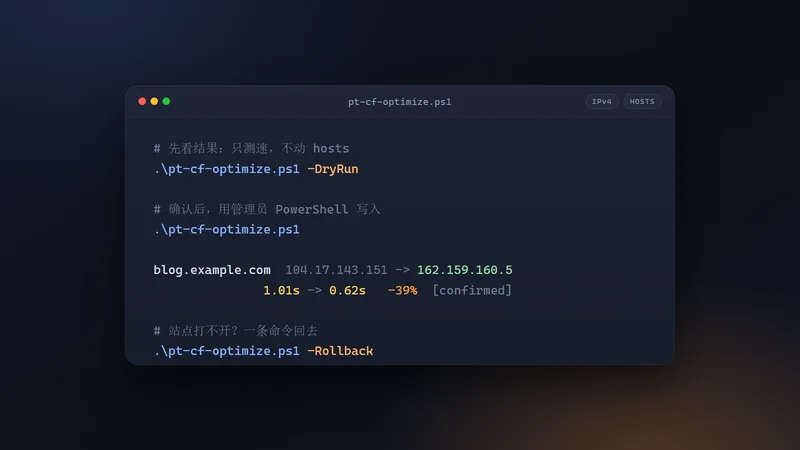
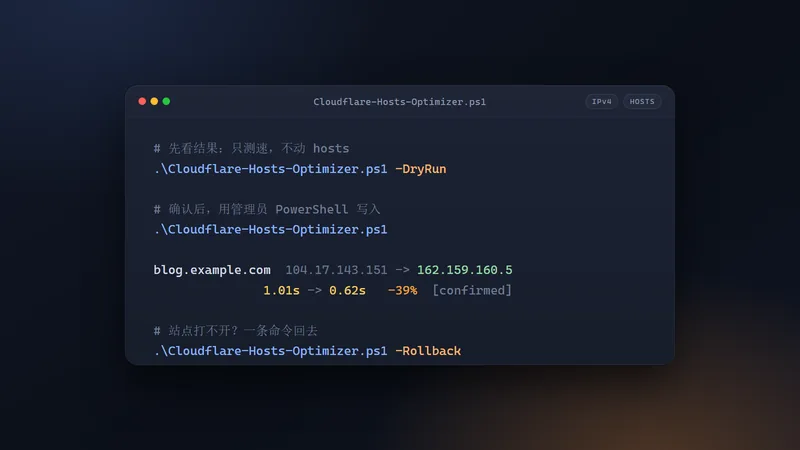
post: 跟进仓库与脚本改名 Cloudflare-Hosts-Optimizer

diff --git a/content/posts/pt-cf-optimize/index.md b/content/posts/pt-cf-optimize/index.md
@@ -15,7 +15,7 @@ categories: []
 
 很多套了 Cloudflare 的站点，打开速度取决于你被分到哪个边缘节点。我这边（河北联通）访问大部分 PT 站都很慢，有的甚至完全进不去。用 [CloudflareSpeedTest（CFST）](https://github.com/XIU2/CloudflareSpeedTest) 优选后手动写 hosts 确实能改善，但 CFST 选出的 IP 不一定对每个站都最优：有的 IP 测速数据漂亮，一访问站点却提示 1034（Edge IP Restricted）；而且 CFST 默认的测速地址已经不由作者维护（[issue #168](https://github.com/XIU2/CloudflareSpeedTest/issues/168)），我这边访问直接返回 403，当前版本会判为失败，等于测不出速度。
 
-所以我写了 `pt-cf-optimize`：在 Windows 上测出当前线路到 Cloudflare 各边缘节点较快的 IP，逐站验证可用后写进 hosts。它只改善网页 TTFB，不影响 P2P；不代理、不登录、不改出口 IP。我这边优选后，一个原本要 >10 秒才能加载完的站，现在 3 秒左右就能打开。
+所以我写了 `Cloudflare-Hosts-Optimizer`：在 Windows 上测出当前线路到 Cloudflare 各边缘节点较快的 IP，逐站验证可用后写进 hosts。它只改善网页 TTFB，不影响 P2P；不代理、不登录、不改出口 IP。我这边优选后，一个原本要 >10 秒才能加载完的站，现在 3 秒左右就能打开。
 
 <!--more-->
 
@@ -31,14 +31,14 @@ categories: []
 
 **1）下载脚本**
 
-到 [Releases](https://github.com/chenfangshuo/pt-cf-optimize/releases/latest) 下载压缩包，解压到一个固定目录。需要 Windows 10/11、PowerShell 7+，以及系统自带的 `curl.exe`。
+到 [Releases](https://github.com/chenfangshuo/Cloudflare-Hosts-Optimizer/releases/latest) 下载压缩包。资源管理器的「全部解压缩」会先建一个以压缩包命名的目录，里面才是 `Cloudflare-Hosts-Optimizer\`，脚本和 `lib\` 都在这一层——进入内层目录运行。需要 Windows 10/11、PowerShell 7+，以及系统自带的 `curl.exe`。
 
 **2）可选：放好 CFST**
 
 从 [CloudflareSpeedTest Releases](https://github.com/XIU2/CloudflareSpeedTest/releases/latest) 下载 `cfst.exe` 和 `ip.txt`，放到脚本旁的 `cfst\` 目录：
 
 ```text
-pt-cf-optimize\
+Cloudflare-Hosts-Optimizer\
   cfst\
     cfst.exe
     ip.txt
@@ -66,22 +66,22 @@ pt-cf-optimize\
 DryRun 不需要管理员，也不会改 hosts；但**扫描、测速和逐站 HEAD 验证都会照常执行**——它只是不写入，不是完全不发请求。
 
 ```powershell
-pwsh -NoProfile -ExecutionPolicy Bypass -File .\pt-cf-optimize.ps1 -DryRun
+pwsh -NoProfile -ExecutionPolicy Bypass -File .\Cloudflare-Hosts-Optimizer.ps1 -DryRun
 ```
 
 看一眼决策表，确认没问题后，用管理员 PowerShell 正式写入：
 
 ```powershell
-pwsh -NoProfile -ExecutionPolicy Bypass -File .\pt-cf-optimize.ps1
+pwsh -NoProfile -ExecutionPolicy Bypass -File .\Cloudflare-Hosts-Optimizer.ps1
 ```
 
 **5）出问题一键回滚**
 
 ```powershell
-pwsh -NoProfile -ExecutionPolicy Bypass -File .\pt-cf-optimize.ps1 -Rollback
+pwsh -NoProfile -ExecutionPolicy Bypass -File .\Cloudflare-Hosts-Optimizer.ps1 -Rollback
 ```
 
-需要定时运行的话，见 [`docs/scheduling.md`](https://github.com/chenfangshuo/pt-cf-optimize/blob/main/docs/scheduling.md)。
+需要定时运行的话，见 [`docs/scheduling.md`](https://github.com/chenfangshuo/Cloudflare-Hosts-Optimizer/blob/main/docs/scheduling.md)。
 
 ## 它怎么选
 
@@ -95,7 +95,7 @@ pwsh -NoProfile -ExecutionPolicy Bypass -File .\pt-cf-optimize.ps1 -Rollback
 
 ![一次实际运行](run-result.webp "一次实际运行：基线不可用，脚本切到 104.17.137.197，TTFB 0.53s")
 
-这次 `forsure.live` 的基线不可用，脚本直接选了 `104.17.137.197`，TTFB 0.53s。截图里也能看到代理旁路的提示：如果域名不在 `ProxyOverride` 里，脚本会提醒出口 IP 可能变化。
+这次 `forsure.live` 的基线不可用，脚本直接选了 `104.17.137.197`，TTFB 0.53s。截图里也能看到代理旁路的提示：如果域名不在 `ProxyOverride` 里，脚本会提醒出口 IP 可能变化。（截图取自改名前的运行记录，截图里的旧目录名现在已换成 `Cloudflare-Hosts-Optimizer`。）
 
 ## 注意事项
 
@@ -108,11 +108,11 @@ pwsh -NoProfile -ExecutionPolicy Bypass -File .\pt-cf-optimize.ps1 -Rollback
 7. **DryRun 不会减少请求量**。如果对某个站点的请求频率有顾虑，可以调低 `-MaxDomainProbes`（每域名候选探测上限，默认 6）、`-CandidatesPerDomain`（默认 3）、`-BackfillCandidates`（默认 1），把 `-VerifyDelayMs` 从 400ms 调大。比如：
 
    ```powershell
-   .\pt-cf-optimize.ps1 -MaxDomainProbes 3 -CandidatesPerDomain 2 -BackfillCandidates 0 -VerifyDelayMs 1000
+   .\Cloudflare-Hosts-Optimizer.ps1 -MaxDomainProbes 3 -CandidatesPerDomain 2 -BackfillCandidates 0 -VerifyDelayMs 1000
    ```
 
    减少候选数会牺牲一点选择余地；调大验证间隔只会让运行更慢，不改变判定结果。**如果站点管理员认为默认频率不合适，可以直接告诉我，我会调整默认值。**
 
 ## 最后
 
-仓库在 [chenfangshuo/pt-cf-optimize](https://github.com/chenfangshuo/pt-cf-optimize)，MIT 协议，不含任何第三方二进制（CFST 需自行下载）。有问题可以直接提 [Issue](https://github.com/chenfangshuo/pt-cf-optimize/issues)。
+仓库在 [chenfangshuo/Cloudflare-Hosts-Optimizer](https://github.com/chenfangshuo/Cloudflare-Hosts-Optimizer)，MIT 协议，不含任何第三方二进制（CFST 需自行下载）。有问题可以直接提 [Issue](https://github.com/chenfangshuo/Cloudflare-Hosts-Optimizer/issues)。
